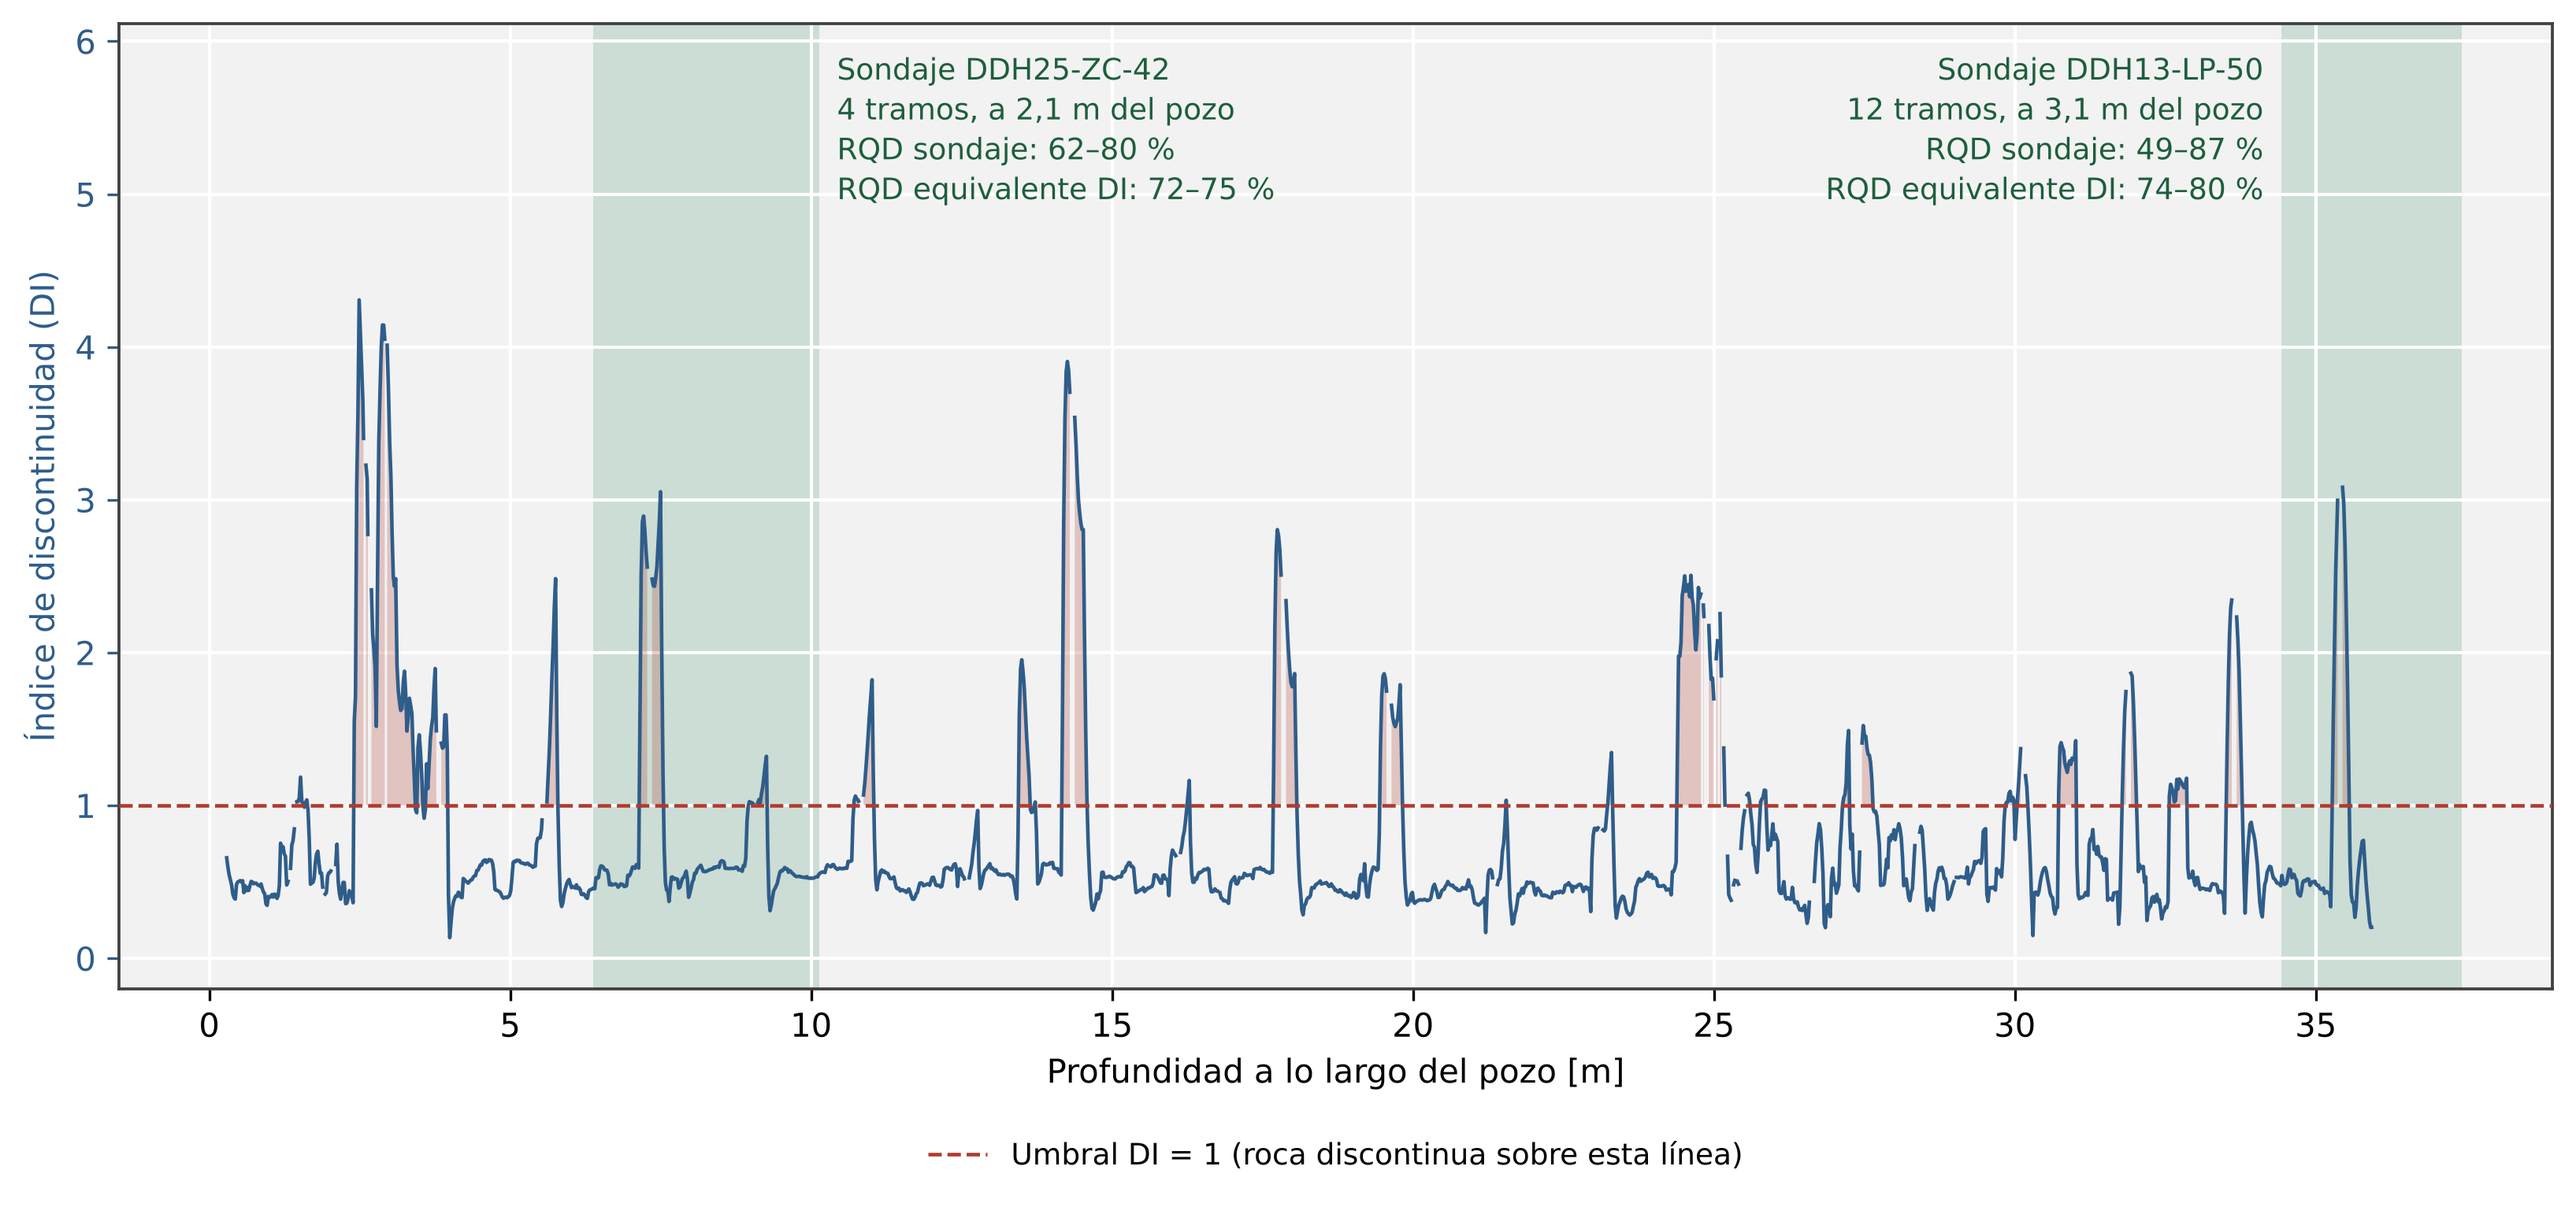
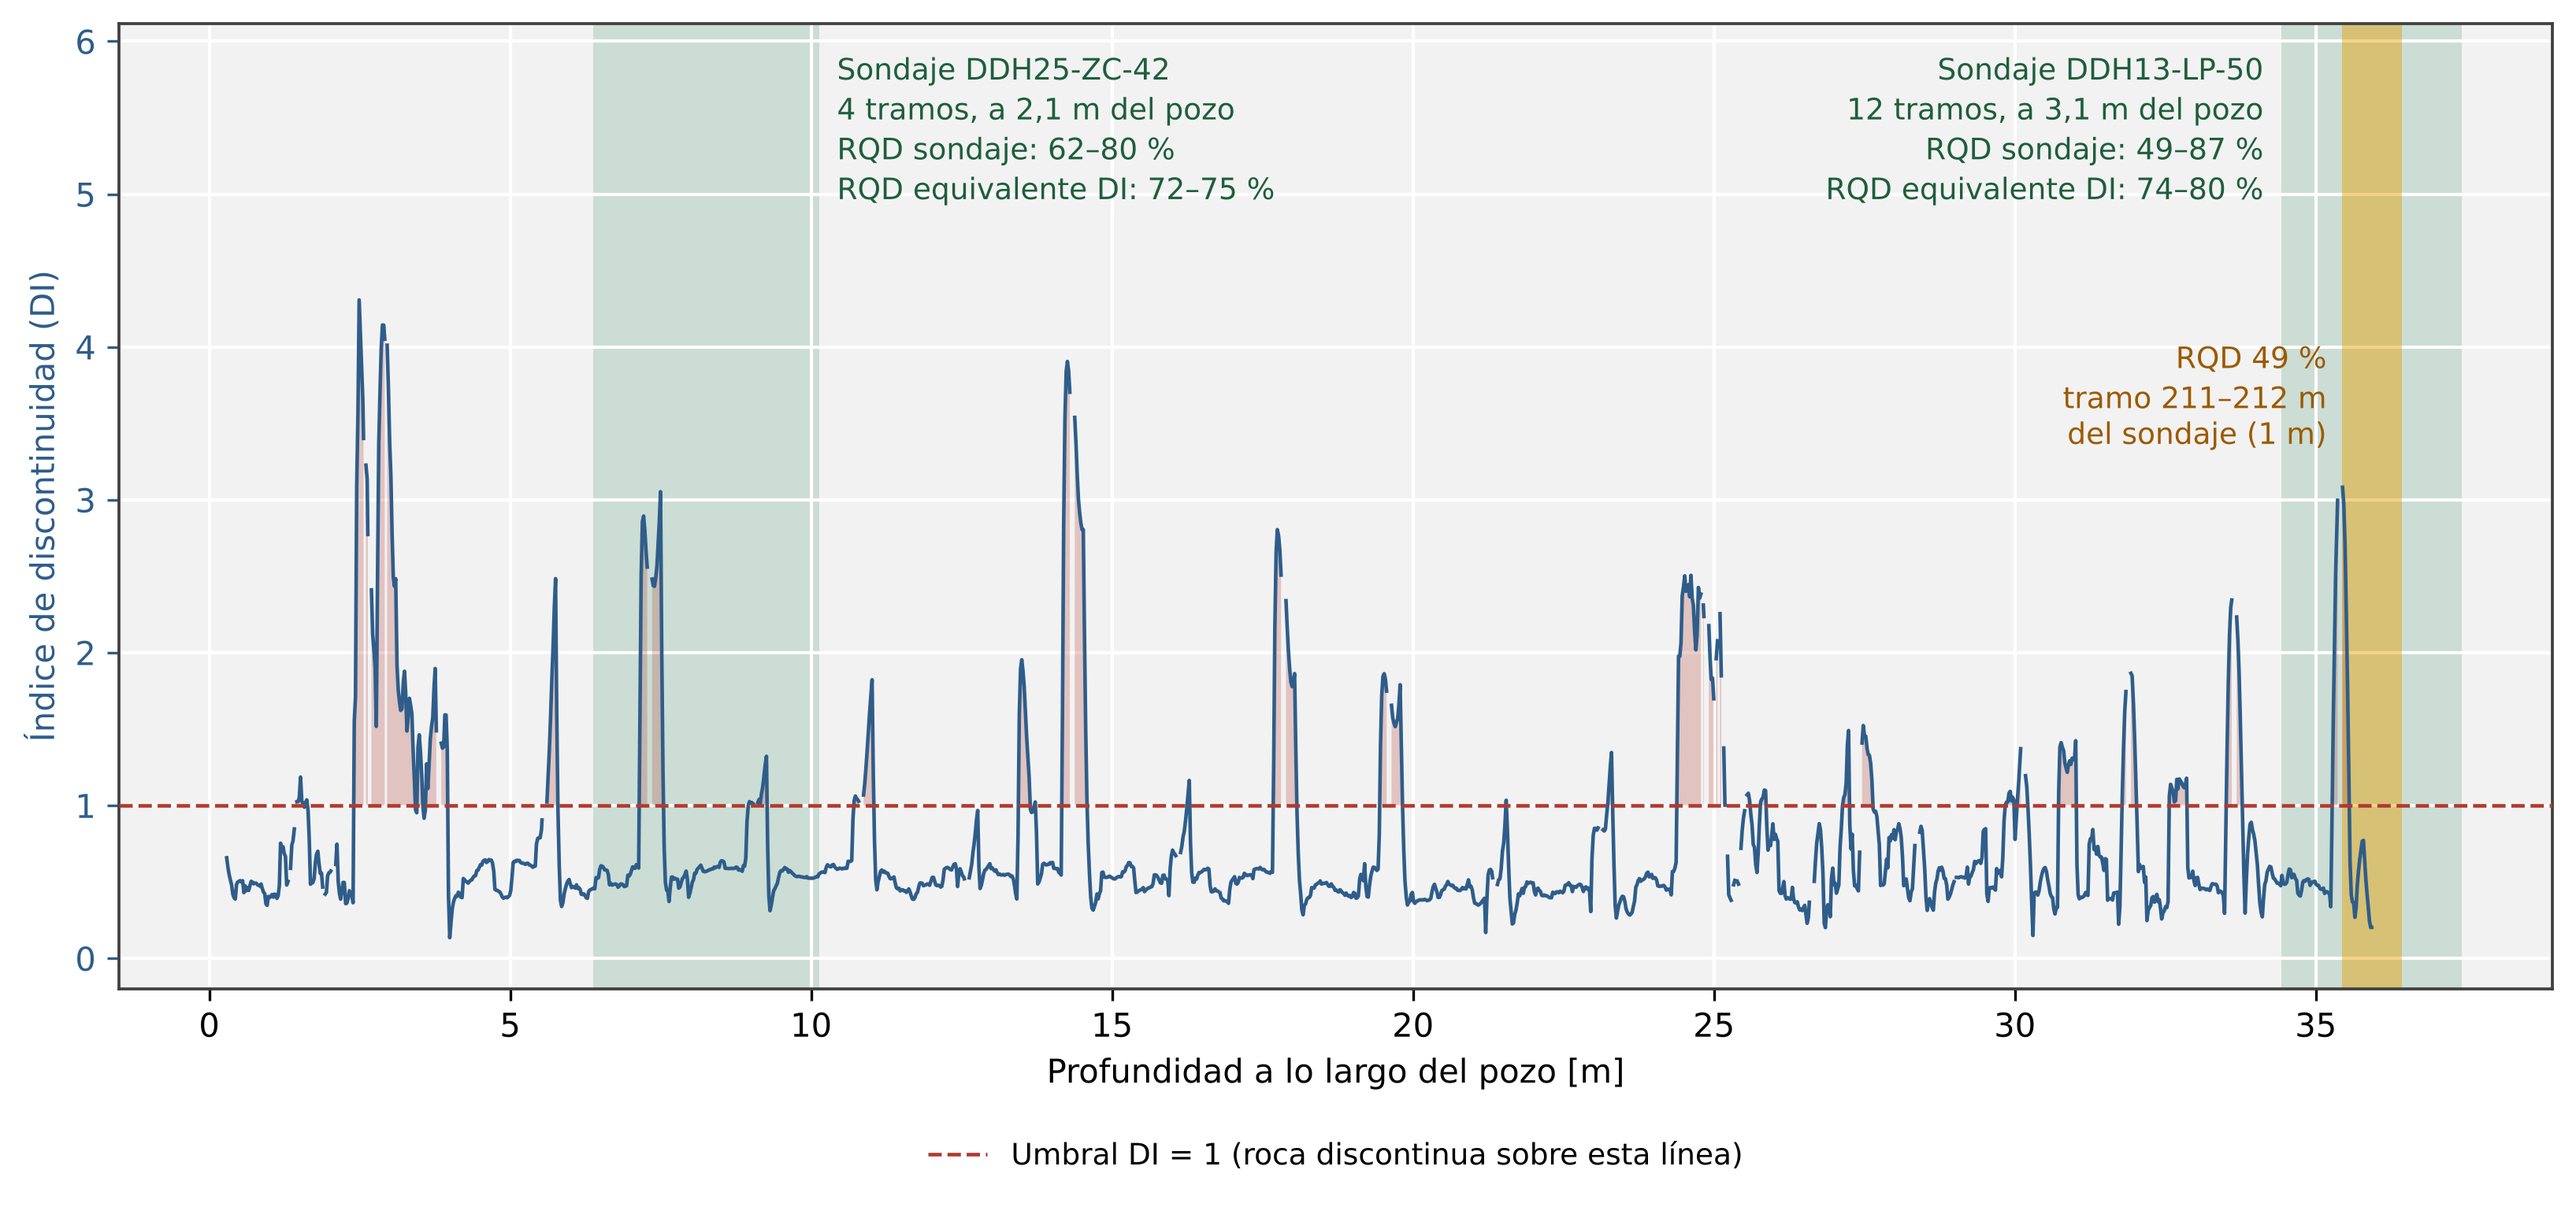
Figura 5.3: franja del tramo con RQD 49 %
Claude-Session: https://claude.ai/code/session_01MT9AkNnHr1e9AMWji6YncB

Changed region(s): [[0.811, 0.0, 0.9358, 0.8278]]

diff --git a/memoria_final/final/fig_perfil_di.py b/memoria_final/final/fig_perfil_di.py
@@ -35,6 +35,14 @@ for k, (son, ts) in enumerate(sorted(Z.items(), key=lambda kv: min(t["largo_pozo
     ha = "right" if xc > L.max() * 0.8 else "left"
     ax.text(a - 0.3 if ha == "right" else b + 0.3, ytop * 0.97, txt, ha=ha, va="top", fontsize=9,
             color=VERDE_T, linespacing=1.35, zorder=6)
+# Tramo de RQD bajo (< 50 %, «malo» según Deere): su franja propia, sobre la
+# zona del sondaje, centrada en el punto del pozo más cercano a ese tramo.
+for t in P["tramos_rqd"]:
+    if t["rqd"] < 50:
+        a_, b_ = t["largo_pozo_m"] - t["largo_tramo_m"] / 2, t["largo_pozo_m"] + t["largo_tramo_m"] / 2
+        ax.axvspan(a_, b_, color="#E69F00", alpha=0.45, lw=0, zorder=1)
+        ax.text(a_ - 0.25, ytop * 0.60, f"RQD {dec(t['rqd'], 0)} %\ntramo {dec(t['desde'], 0)}–{dec(t['hasta'], 0)} m\ndel sondaje ({dec(t['largo_tramo_m'], 0)} m)",
+                ha="right", va="center", fontsize=9, color="#9C5A00", linespacing=1.3, zorder=6)
 ax.plot(L, D, "-", color=AZUL, lw=1.1, zorder=3)
 ax.fill_between(L, U, D, where=np.isfinite(D) & (D > U), color=ROJO, alpha=0.25, lw=0, zorder=2, interpolate=True)
 ax.axhline(U, color=ROJO, ls="--", lw=1.1, zorder=4, label=f"Umbral DI = {dec(U, 0)} (roca discontinua sobre esta línea)")
